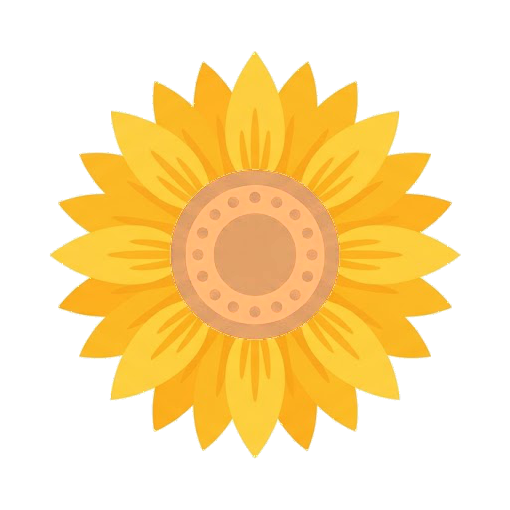
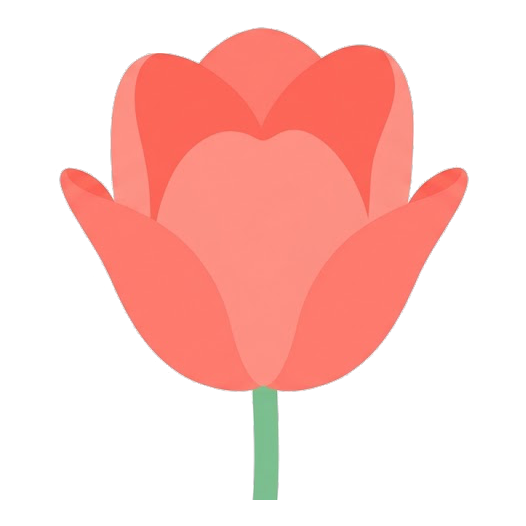
"很好"心情用新的郁金香素材替换向日葵，App 图标也换成郁金香款
用户提供了两张新素材：一张郁金香主题的圆角方形图标（用作 favicon/
app 图标），一张盛开的珊瑚色郁金香（用于"心情最好"档位的花朵）。
两张都是白底 JPEG，用白色背景抠图（亮度阈值+羽化）转成透明 PNG，
裁剪到内容边界后按现有素材的留白比例重新打底。

- assets/favicon.png：替换成郁金香版图标（原来是叶子图标），保持
  512x512 与原有引用方式不变
- assets/flower-great-bloom.png：替换成郁金香，作为 mood=5
  （很好）强度>=4 时的花朵精灵（MOOD_SPRITES[5][1]）

注意：mood=5 的花苞阶段（flower-great-bud.png）目前还是向日葵苞，
没有跟着换成郁金香苞——用户只给了盛开阶段的素材，需要确认是否
也要配一张郁金香花苞图。

diff --git a/index.html b/index.html
@@ -7,7 +7,7 @@
 <meta name="description" content="零门槛记录情绪变化，分析触发因素，获取冥想、音乐、运动等自助调节建议。数据只存在你的浏览器里。">
 <link rel="icon" href="assets/favicon.png">
 <link rel="apple-touch-icon" href="assets/favicon.png">
-<link rel="stylesheet" href="style.css?v=14">
+<link rel="stylesheet" href="style.css?v=15">
 </head>
 <body>
 
@@ -328,7 +328,7 @@
 
 </div>
 
-<script src="audio.js?v=14"></script>
-<script src="app.js?v=14"></script>
+<script src="audio.js?v=15"></script>
+<script src="app.js?v=15"></script>
 </body>
 </html>
